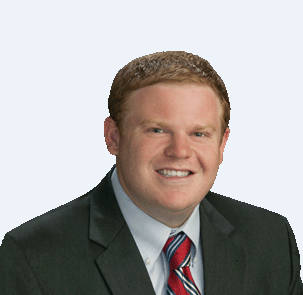
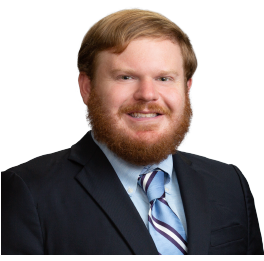
fix: higher quality leadership pics

diff --git a/_includes/team.html b/_includes/team.html
@@ -18,7 +18,7 @@
                                   <i class="fa fa-plus fa-3x"></i>
                               </div>
                           </div>
-                          <img src="img/team/{{ member.pic }}" class="img-responsive img-circle" alt="">
+                          <img src="img/team/{{ member.pic }}" class="img-responsive img-circle" style="height: 334px;" alt="">
                         </a>
                           <h4>{{ member.name }}</h4>
                           <p class="text-muted">{{ member.subtitle }}</p>
